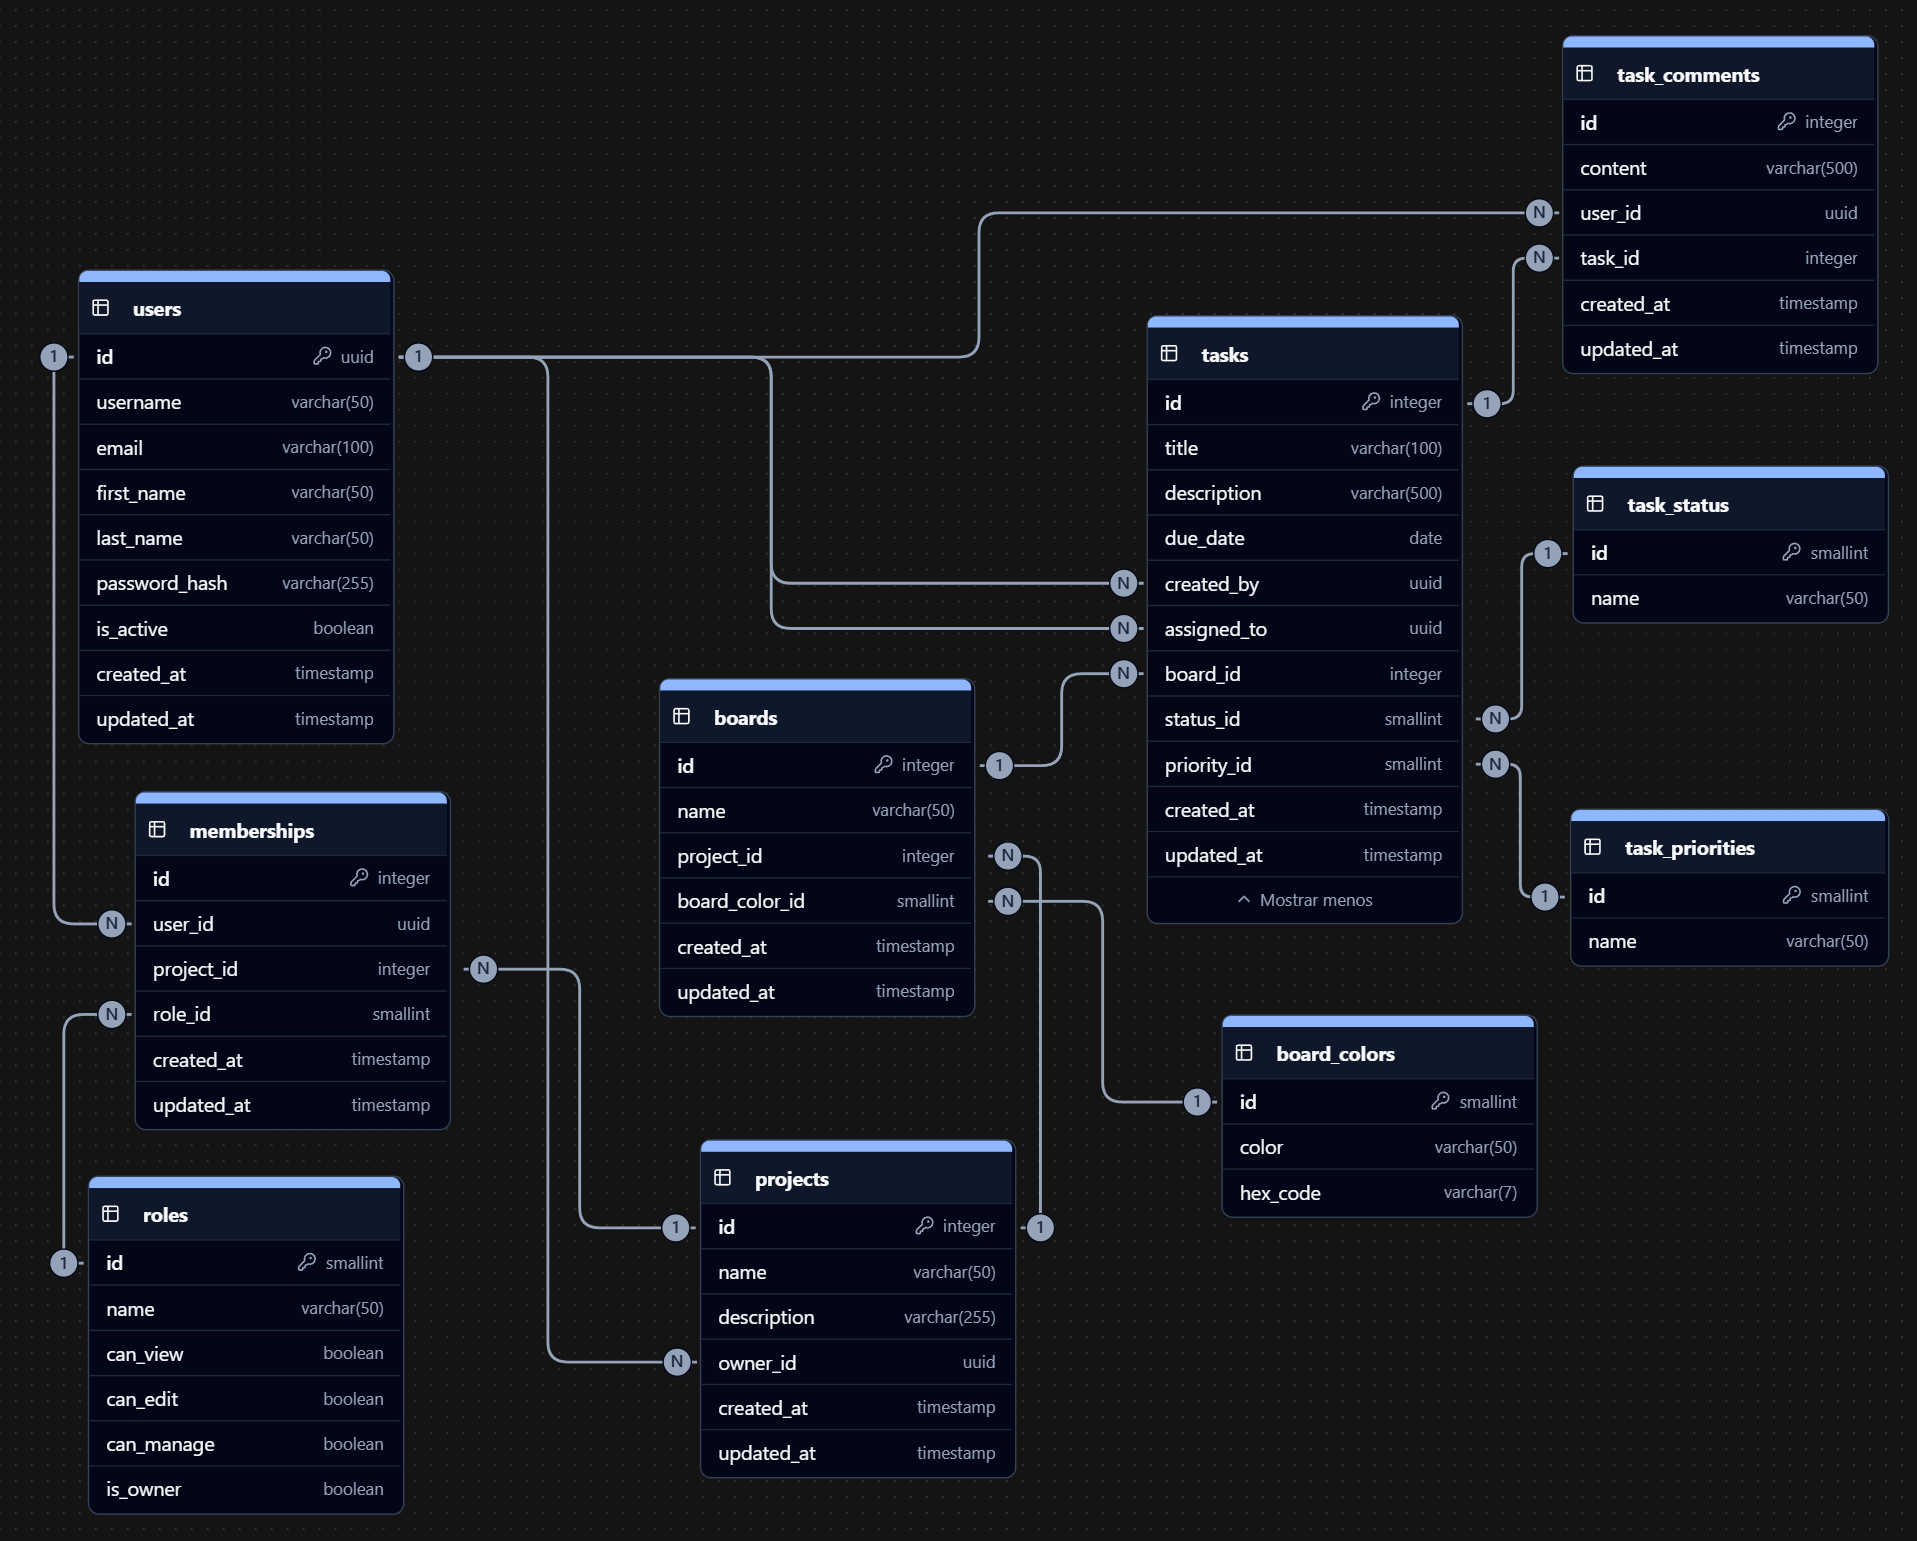
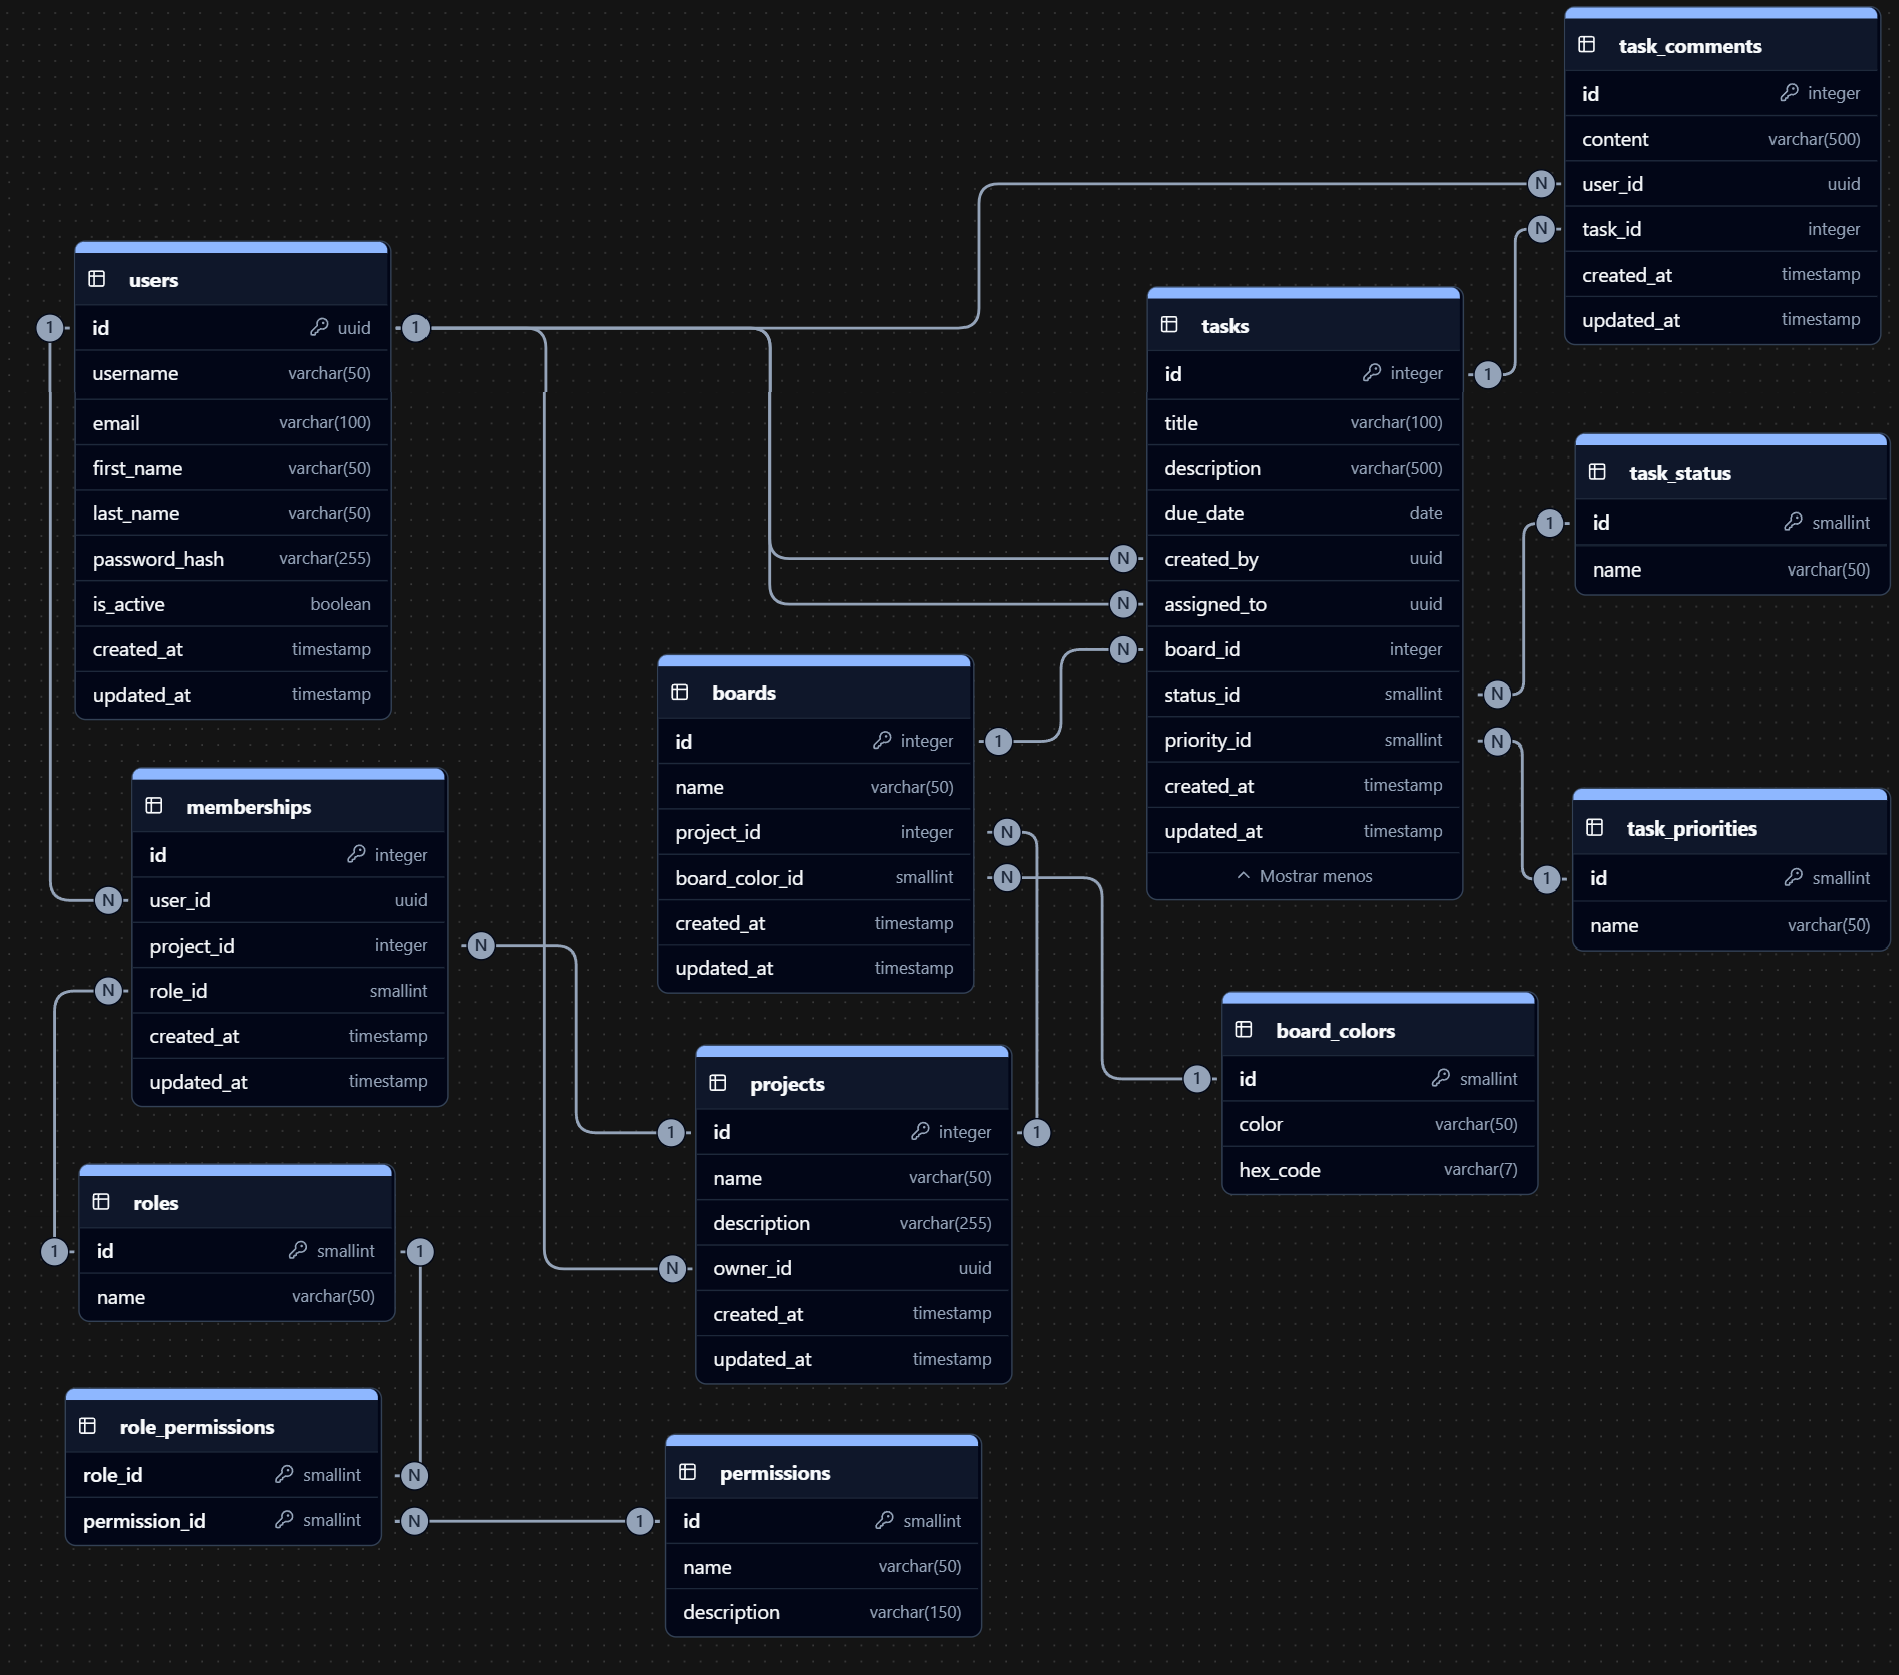
Modelo agregado TaskStatus y corrección Priority a TaskPriority

diff --git a/backend/src/services/task.service.js b/backend/src/services/task.service.js
@@ -1,6 +1,6 @@
 import Board from '../models/board.model.js'
 import Task from '../models/task.model.js'
-import Priority from '../models/priority.model.js'
+import TaskPriority from '../models/taskPriority.model.js'
 import Label from '../models/label.model.js'
 import User from '../models/user.model.js'
 import Comment from '../models/comment.model.js'
@@ -32,7 +32,7 @@ export const findAllTasks = async (projectId, boardId, sort, order) => {
         attributes: ['id', 'title', 'description', 'due_date', 'createdAt', 'updatedAt', 'priority_id', 'assigned_to', 'created_by'],
         include: [
           { model: Label, attributes: ['hex_code'] },
-          { model: Priority, attributes: ['name'] },
+          { model: TaskPriority, attributes: ['name'] },
           { model: User, attributes: ['first_name', 'last_name'], as: 'assignedTo' },
           { model: User, attributes: ['first_name', 'last_name'], as: 'createdBy' }
         ]
@@ -51,7 +51,7 @@ export const addNewTask = async (userId, projectId, boardId, title, description,
     }
   })
   if (!boardValidation) throw new Error('Board not found')
-  const priority = await Priority.findByPk(priorityId)
+  const priority = await TaskPriority.findByPk(priorityId)
   if (!priority) throw new Error('Priority not found')
   const task = await Task.create({
     title,
@@ -82,7 +82,7 @@ export const editTask = async (projectId, boardId, taskId, title, description, a
     }]
   })
   if (!task) throw new Error('Task not found')
-  const priority = await Priority.findByPk(priorityId)
+  const priority = await TaskPriority.findByPk(priorityId)
   if (!priority) throw new Error('Priority not found')
   const label = await Label.findByPk(labelId)
   if (!label) throw new Error('Label not found')
@@ -155,7 +155,7 @@ export const findTaskById = async (projectId, boardId, taskId) => {
       attributes: []
     }]
   })
-  const priorities = await Priority.findAll({
+  const priorities = await TaskPriority.findAll({
     attributes: ['id', 'name']
   })
   const creator = await User.findOne({
@@ -190,7 +190,7 @@ export const searchTasksByCriteria = async (boardId, criteria) => {
     attributes: ['id', 'title', 'description', 'due_date', 'createdAt', 'updatedAt', 'priority_id', 'assigned_to', 'created_by'],
     include: [
       { model: Label, attributes: ['hex_code'] },
-      { model: Priority, attributes: ['name'] },
+      { model: TaskPriority, attributes: ['name'] },
       { model: User, attributes: ['first_name', 'last_name'], as: 'assignedTo' },
       { model: User, attributes: ['first_name', 'last_name'], as: 'createdBy' }
     ],

diff --git a/backend/src/models/relationships.js b/backend/src/models/relationships.js
@@ -5,7 +5,7 @@ import Project_users from './project_users.model.js'
 import Role from './role.model.js'
 import Board from './board.model.js'
 import Comment from './comment.model.js'
-import Priority from './priority.model.js'
+import TaskPriority from './taskPriority.model.js'
 import Label from './label.model.js'
 
 // Relaciones User
@@ -50,6 +50,6 @@ Task.belongsTo(Label, { foreignKey: 'label_id' })
 Label.hasMany(Board, { foreignKey: 'label_id' })
 Board.belongsTo(Label, { foreignKey: 'label_id' })
 
-// Relaciones Priority
-Priority.hasMany(Task, { foreignKey: 'priority_id' })
-Task.belongsTo(Priority, { foreignKey: 'priority_id' })
+// Relaciones TaskPriority
+TaskPriority.hasMany(Task, { foreignKey: 'priority_id' })
+Task.belongsTo(TaskPriority, { foreignKey: 'priority_id' })

diff --git a/backend/src/models/taskPriority.model.js b/backend/src/models/taskPriority.model.js
@@ -1,24 +1,24 @@
 import { DataTypes, Model } from 'sequelize'
 import { sequelize } from '../config/database.js'
 
-class Priority extends Model {}
+class TaskPriority extends Model {}
 
-Priority.init({
+TaskPriority.init({
   id: {
-    type: DataTypes.INTEGER,
+    type: DataTypes.SMALLINT,
     autoIncrement: true,
     primaryKey: true
   },
   name: {
-    type: DataTypes.STRING(30),
+    type: DataTypes.STRING(50),
     unique: true,
     allowNull: false
   }
 }, {
   sequelize,
   timestamps: false,
-  modelName: 'Priority',
-  tableName: 'priorities',
+  modelName: 'TaskPriority',
+  tableName: 'task_priorities',
 })
 
-export default Priority
+export default TaskPriority

diff --git a/backend/src/models/taskStatus.model.js b/backend/src/models/taskStatus.model.js
@@ -1,0 +1,24 @@
+import { DataTypes, Model } from 'sequelize'
+import { sequelize } from '../config/database.js'
+
+class TaskStatus extends Model {}
+
+TaskStatus.init({
+  id: {
+    type: DataTypes.SMALLINT,
+    autoIncrement: true,
+    primaryKey: true
+  },
+  name: {
+    type: DataTypes.STRING(50),
+    unique: true,
+    allowNull: false
+  }
+}, {
+  sequelize,
+  timestamps: false,
+  modelName: 'TaskStatus',
+  tableName: 'task_status',
+})
+
+export default TaskStatus
